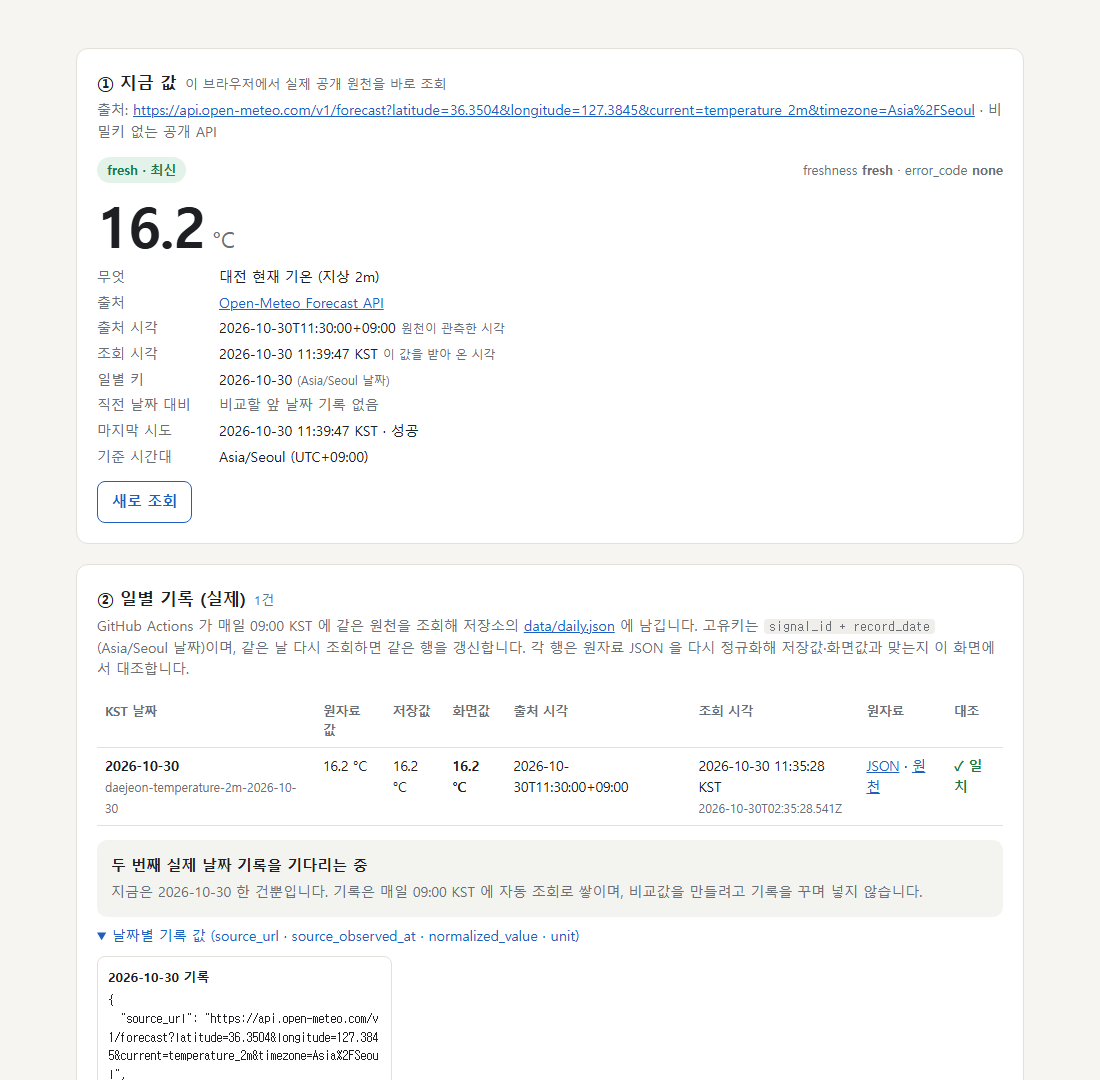
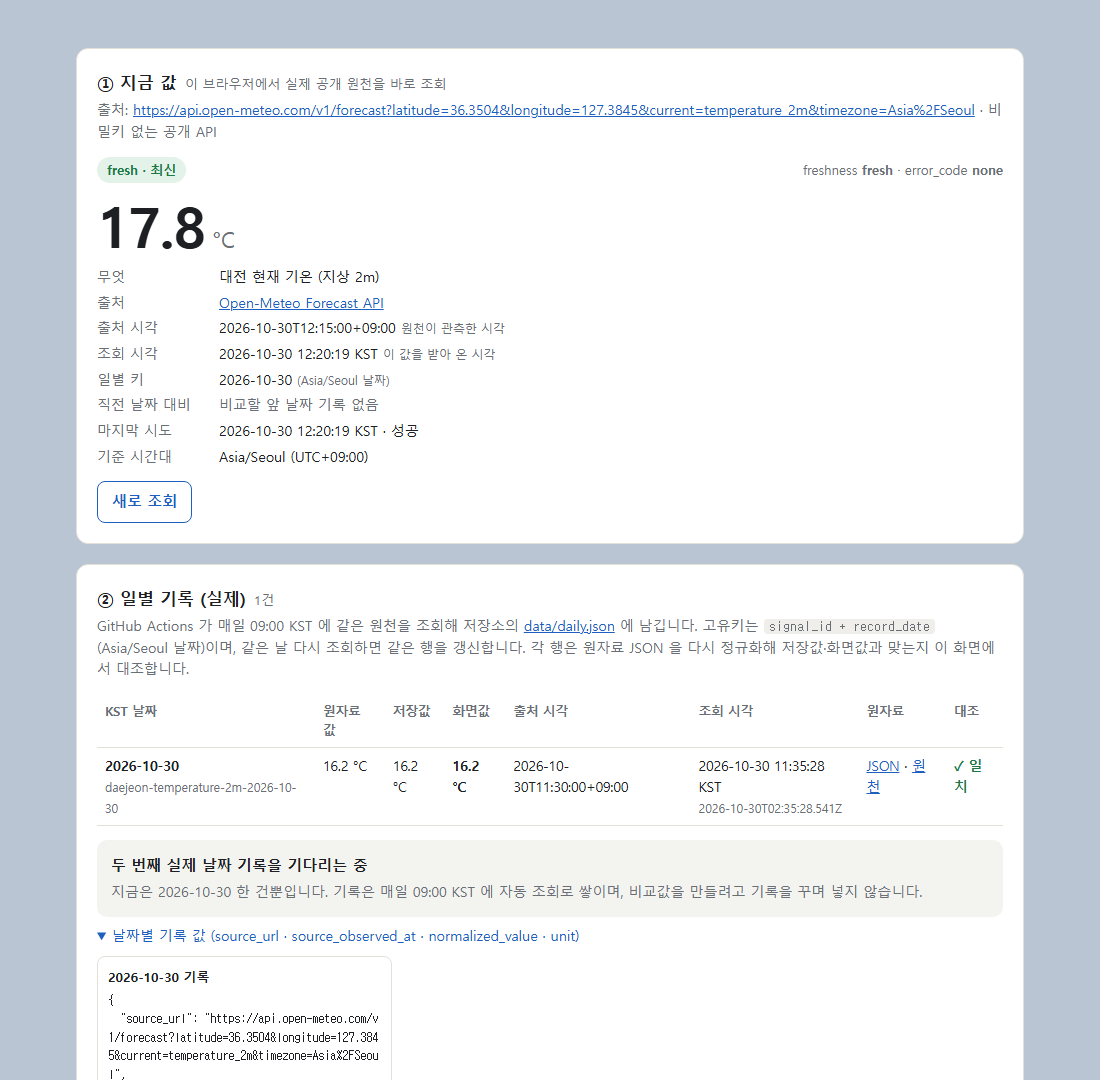
페이지 배경을 진한 청회색으로 바꾸고 README 캡처 다시 찍기

diff --git a/index.html b/index.html
@@ -7,12 +7,12 @@
 <meta name="description" content="대전 현재 기온을 매일 기록하고, 데이터가 오지 않을 때도 정직하게 설명하는 정보판 (과제 4)">
 <style>
 :root {
-  --bg: #f6f5f1; --panel: #ffffff; --ink: #1d1f22; --muted: #6a6f76; --line: #e2e0d9;
+  --bg: #b9c5d3; --on-bg: #17202b; --on-bg-muted: #33404e; --panel: #ffffff; --ink: #1d1f22; --muted: #6a6f76; --line: #e2e0d9;
   --accent: #1f5fbf; --fresh: #1d7a46; --fresh-bg: #e3f3e9; --stale: #9a5b00; --stale-bg: #fdf0d9;
   --error: #b42318; --error-bg: #fde8e6; --up: #c2410c; --down: #1f5fbf;
 }
 @media (prefers-color-scheme: dark) {
-  :root { --bg: #15171a; --panel: #1e2125; --ink: #e9e7e2; --muted: #9aa0a8; --line: #2e3238;
+  :root { --bg: #15171a; --on-bg: #e9e7e2; --on-bg-muted: #9aa0a8; --panel: #1e2125; --ink: #e9e7e2; --muted: #9aa0a8; --line: #2e3238;
     --accent: #7aa7ff; --fresh: #6fd39a; --fresh-bg: #173326; --stale: #f2b85b; --stale-bg: #3a2c12;
     --error: #ff8a80; --error-bg: #3d1a17; --up: #fb923c; --down: #7aa7ff; }
 }
@@ -20,7 +20,8 @@
 body { margin: 0; background: var(--bg); color: var(--ink); font: 15px/1.55 system-ui, -apple-system, "Segoe UI", "Apple SD Gothic Neo", "Malgun Gothic", sans-serif; }
 main { max-width: 980px; margin: 0 auto; padding: 28px 16px 64px; }
 header h1 { font-size: 26px; margin: 0 0 4px; letter-spacing: -0.01em; }
-header p { margin: 0; color: var(--muted); }
+header h1 { color: var(--on-bg); }
+header p { margin: 0; color: var(--on-bg-muted); }
 section { background: var(--panel); border: 1px solid var(--line); border-radius: 12px; padding: 20px; margin-top: 20px; }
 h2 { font-size: 17px; margin: 0 0 4px; display: flex; gap: 8px; align-items: baseline; flex-wrap: wrap; }
 h2 .n { color: var(--muted); font-weight: 500; font-size: 13px; }
@@ -91,7 +92,8 @@ h3 { font-size: 14px; margin: 16px 0 6px; }
 #test-out li { padding: 3px 0; }
 #test-out .ok { color: var(--fresh); } #test-out .bad { color: var(--error); }
 ul.facts { margin: 0; padding-left: 18px; font-size: 14px; }
-footer { color: var(--muted); font-size: 12.5px; margin-top: 24px; }
+footer a { color: var(--on-bg); }
+footer { color: var(--on-bg-muted); font-size: 12.5px; margin-top: 24px; }
 .receipts { display: grid; grid-template-columns: repeat(auto-fill, minmax(280px, 1fr)); gap: 10px; margin-top: 10px; }
 .receipt { border: 1px solid var(--line); border-radius: 8px; padding: 10px; }
 .receipt-h { font-weight: 600; font-size: 13px; margin-bottom: 4px; }
